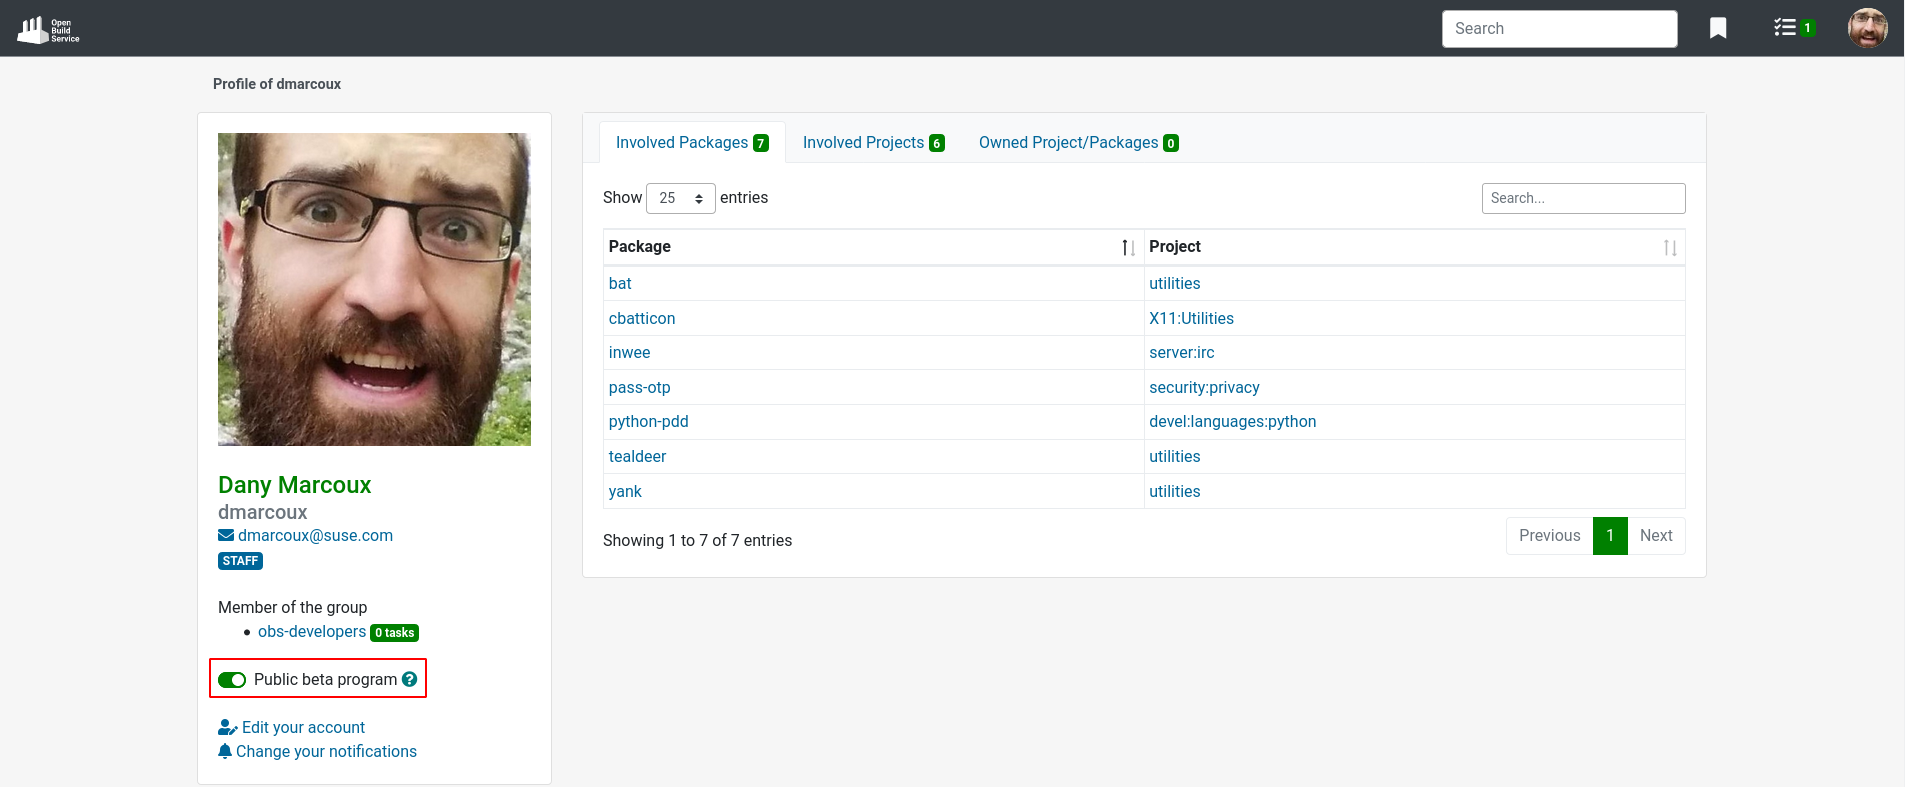
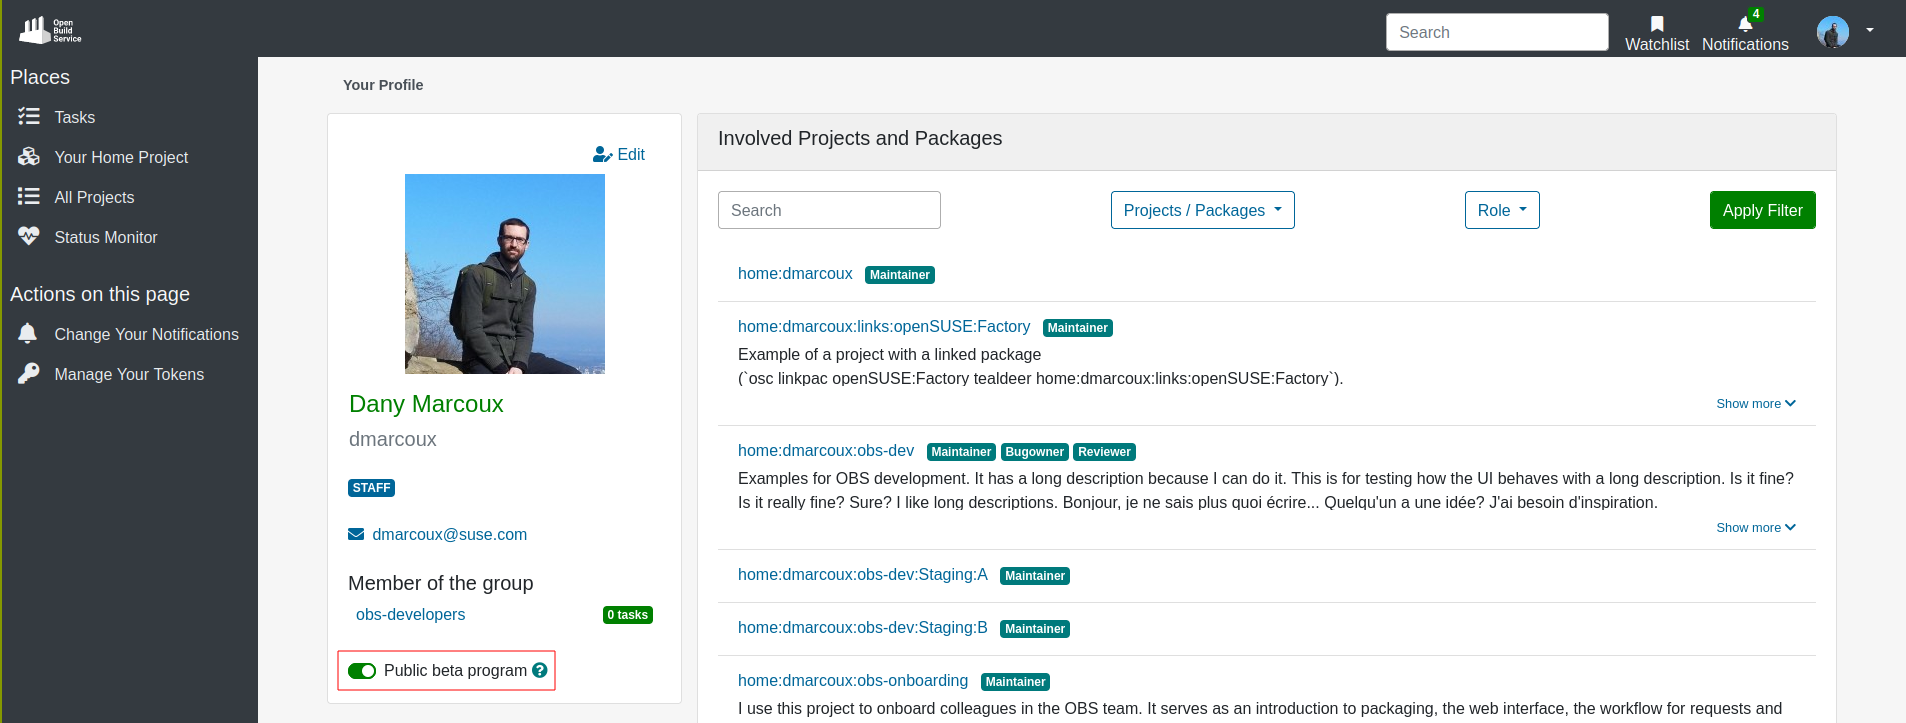
Update screenshot on 'The Beta Program' blog post
It was outdated since we redesigned the user profile page.

diff --git a/_posts/development/2018-10-04-the-beta-program.md b/_posts/development/2018-10-04-the-beta-program.md
@@ -21,7 +21,10 @@ Read our recent blog posts to stay up to date on this matter.
 Joining the beta program is really easy!
 Be sure to be logged in, then go on [your profile page](https://build.opensuse.org/home) and click on the _Public beta program_ switch under your avatar.
 
-<img src="/images/posts/the-beta-program/public-beta-program.png" alt="Profile page with the 'Public beta program' switch">
+<figure>
+  <img src="/images/posts/the-beta-program/public-beta-program.png" alt="Profile page with the 'Public beta program' switch" width="1000px">
+  <figcaption>Profile page with the 'Public beta program' switch</figcaption>
+</figure>
 
 And of course, you can leave the beta program at any time by clicking again on the _Public beta program_ switch.
 
